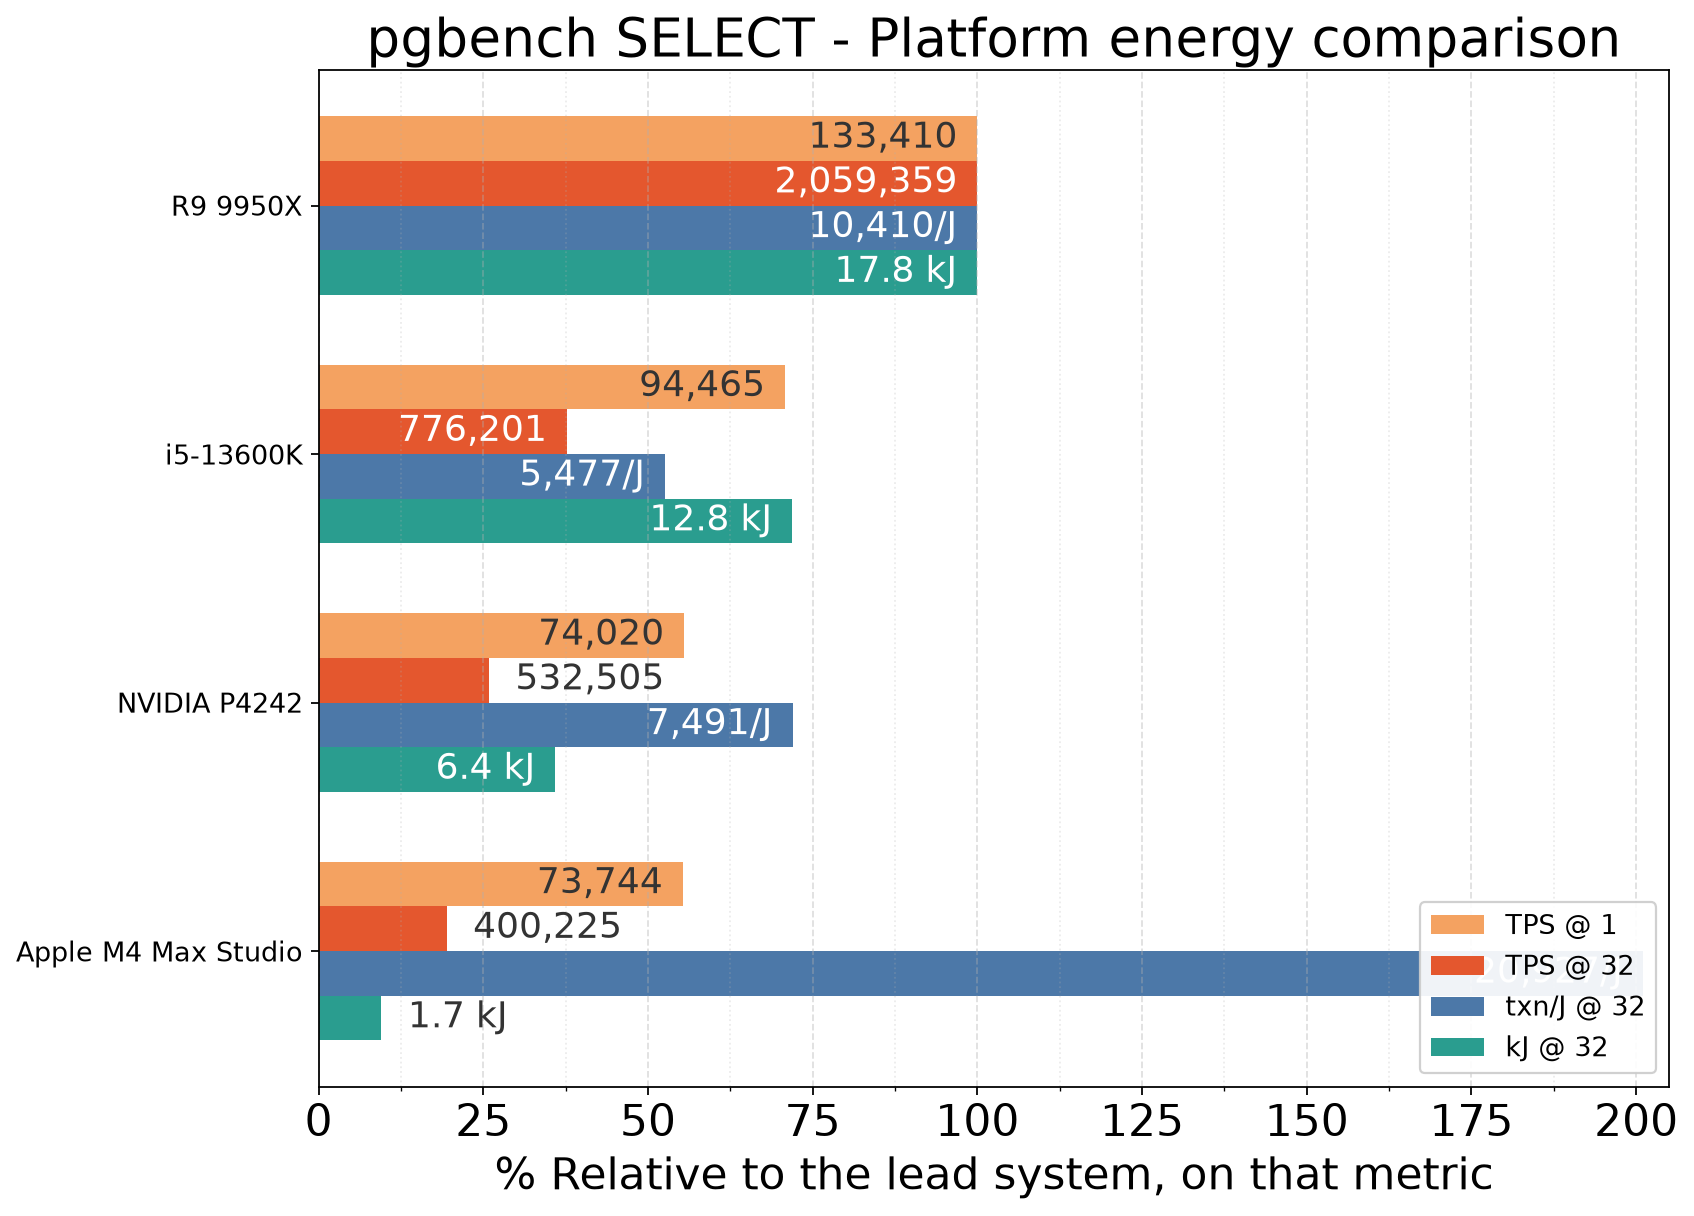
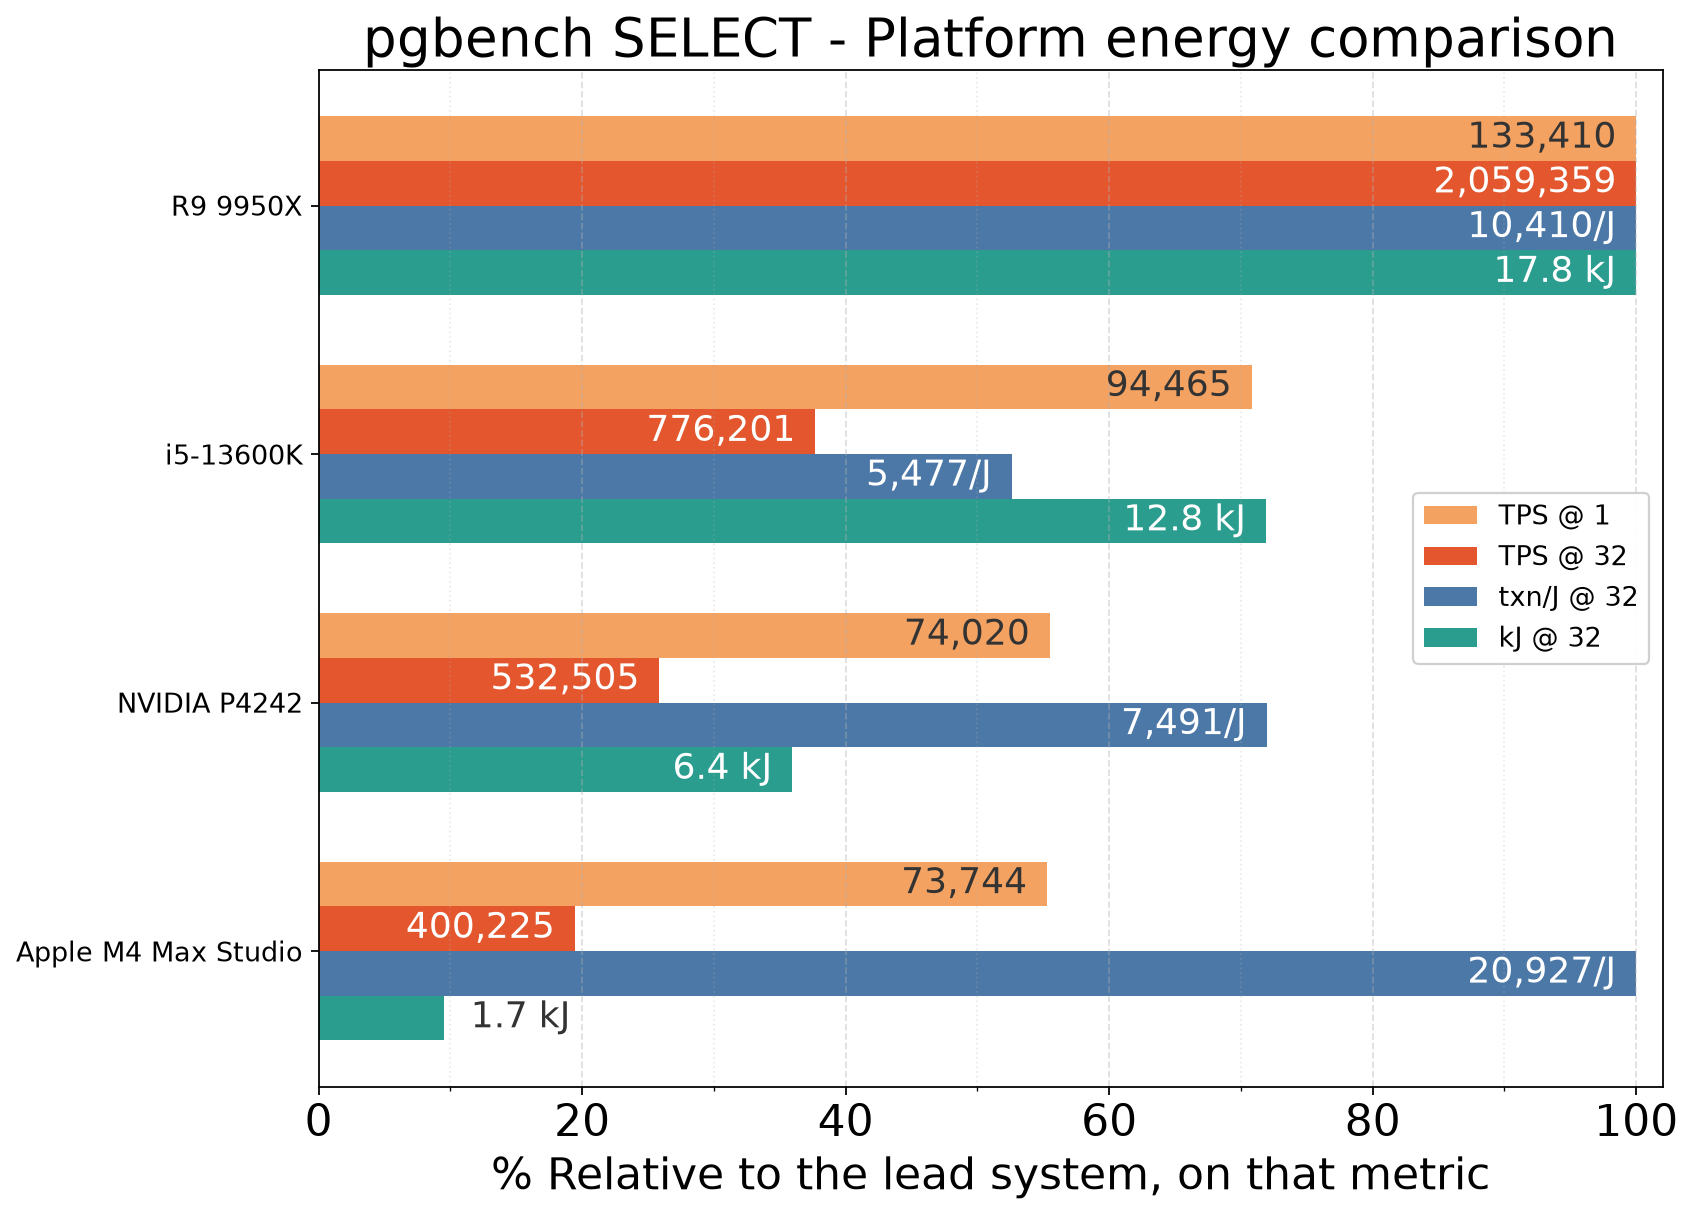
Cap SELECT platform bars at 100% and keep legend inside the axes.
Preserves bar resolution when Apple txn/J leads, with labels and copy noting the clip.

diff --git a/reports/select-leaderboard.py b/reports/select-leaderboard.py
@@ -273,17 +273,22 @@ def _text_width_data(ax, text: str, fontsize: float, renderer) -> float:
 
 
 def _label_barh_values(ax, items: list[tuple], fontsize: float = BAR_LABEL_FONTSIZE) -> None:
-    ax.figure.canvas.draw()
-    renderer = ax.figure.canvas.get_renderer()
+    """Prefer inside-bar labels; never stretch xlim past the lead bar (100%)."""
     xmax = max(item[1] for item in items)
     pad = max(xmax * 0.02, 2)
     inner_pad = max(xmax * 0.015, 1.5)
-    max_x = xmax
+    # Lock the axis first so text-width math and labels stay on the same scale.
+    ax.set_xlim(0, xmax + pad)
+    ax.figure.canvas.draw()
+    renderer = ax.figure.canvas.get_renderer()
     for yi, width, color, label in items:
         text_width = _text_width_data(ax, label, fontsize, renderer)
-        if text_width + inner_pad * 2 <= width:
+        fits_inside = text_width + inner_pad * 2 <= width
+        # Outside only when the label stays within the fixed axis.
+        fits_outside = width + pad + text_width <= xmax + pad
+        if fits_inside or not fits_outside:
             ax.text(
-                width - inner_pad,
+                max(width - inner_pad, inner_pad),
                 yi,
                 label,
                 va="center",
@@ -292,12 +297,9 @@ def _label_barh_values(ax, items: list[tuple], fontsize: float = BAR_LABEL_FONTS
                 color=_contrast_text_color(color),
                 clip_on=True,
             )
-            max_x = max(max_x, width)
         else:
-            x = width + pad
-            outside_width = _text_width_data(ax, label, fontsize, renderer)
             ax.text(
-                x,
+                width + pad,
                 yi,
                 label,
                 va="center",
@@ -306,8 +308,6 @@ def _label_barh_values(ax, items: list[tuple], fontsize: float = BAR_LABEL_FONTS
                 color=BAR_LABEL_OUTSIDE_COLOR,
                 clip_on=True,
             )
-            max_x = max(max_x, x + outside_width)
-    ax.set_xlim(0, max_x + pad)
 
 
 def _pct_of_leader(series: pd.Series, leader_value: float) -> pd.Series:
@@ -355,10 +355,12 @@ def plot_platform_compare(df: pd.DataFrame, output: Path, show: bool = False) ->
         raise SystemExit("No platform rows for the SELECT comparison chart")
 
     leader = plot_df.loc[plot_df["tps_32"].idxmax()]
-    tps32_pct = _pct_of_leader(plot_df["tps_32"], float(leader["tps_32"]))
-    tps1_pct = _pct_of_leader(plot_df["tps_1"], float(leader["tps_1"]))
-    txn_pct = _pct_of_leader(plot_df["txn_j_32"], float(leader["txn_j_32"]))
-    kj_pct = _pct_of_leader(plot_df["kj_32"], float(leader["kj_32"]))
+    # Cap at 100% so an efficiency outlier (e.g. Apple txn/J) does not
+    # stretch the axis; labels and the Markdown table keep the true values.
+    tps32_pct = _pct_of_leader(plot_df["tps_32"], float(leader["tps_32"])).clip(upper=100.0)
+    tps1_pct = _pct_of_leader(plot_df["tps_1"], float(leader["tps_1"])).clip(upper=100.0)
+    txn_pct = _pct_of_leader(plot_df["txn_j_32"], float(leader["txn_j_32"])).clip(upper=100.0)
+    kj_pct = _pct_of_leader(plot_df["kj_32"], float(leader["kj_32"])).clip(upper=100.0)
     n = len(plot_df)
     y = list(range(n))
     bar_h = 0.18
@@ -388,7 +390,7 @@ def plot_platform_compare(df: pd.DataFrame, output: Path, show: bool = False) ->
     plain_axis(ax)
     _label_barh_values(ax, items)
     ax.legend(
-        loc="lower right",
+        loc="center right",
         ncol=1,
         fontsize=LEADERBOARD_LEGEND_FONTSIZE,
         framealpha=0.92,
@@ -413,10 +415,11 @@ def compare_markdown(table_md: str, n_systems: int) -> str:
         f"{COMPARE_BEGIN}\n\n"
         "One chart for the best **sockets prepared** run on each machine at "
         "**1** and **32** clients. Bar length is relative to the lead system on "
-        "that metric (**100%** = that system's value). Labels are the raw "
-        "values. A longer **kJ** bar means more energy used, not more "
-        "efficiency. **txn/J** is transactions per joule on the same 32-client "
-        "run — total transactions over total package joules.\n\n"
+        "that metric (**100%** = that system's value); anything above the lead "
+        "is drawn at **100%**. Labels and the table are the raw values. A "
+        "longer **kJ** bar means more energy used, not more efficiency. "
+        "**txn/J** is transactions per joule on the same 32-client run — total "
+        "transactions over total package joules.\n\n"
         f"{abbey_note}"
         "![pgbench SELECT - Platform energy comparison]"
         "({{ '/images/select-leaderboard-compare.png' | relative_url }})\n\n"

diff --git a/docs/leaderboards/select-performance-power.md b/docs/leaderboards/select-performance-power.md
@@ -39,7 +39,7 @@ Mean across repeats (4 faces). **tps_1** is the old single-core cell; **tps_32**
 
 <!-- select-platform-compare:begin -->
 
-One chart for the best **sockets prepared** run on each machine at **1** and **32** clients. Bar length is relative to the lead system on that metric (**100%** = that system's value). Labels are the raw values. A longer **kJ** bar means more energy used, not more efficiency. **txn/J** is transactions per joule on the same 32-client run — total transactions over total package joules.
+One chart for the best **sockets prepared** run on each machine at **1** and **32** clients. Bar length is relative to the lead system on that metric (**100%** = that system's value); anything above the lead is drawn at **100%**. Labels and the table are the raw values. A longer **kJ** bar means more energy used, not more efficiency. **txn/J** is transactions per joule on the same 32-client run — total transactions over total package joules.
 
 ![pgbench SELECT - Platform energy comparison]({{ '/images/select-leaderboard-compare.png' | relative_url }})
 
